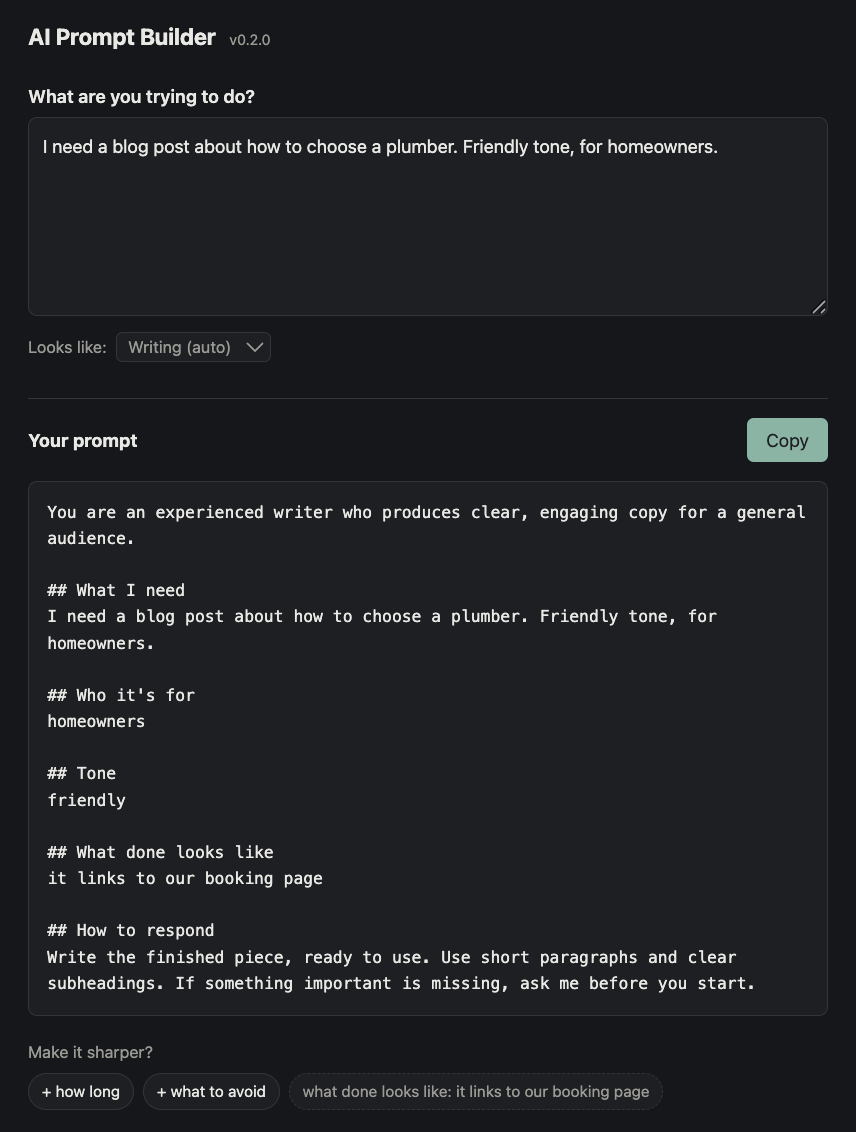
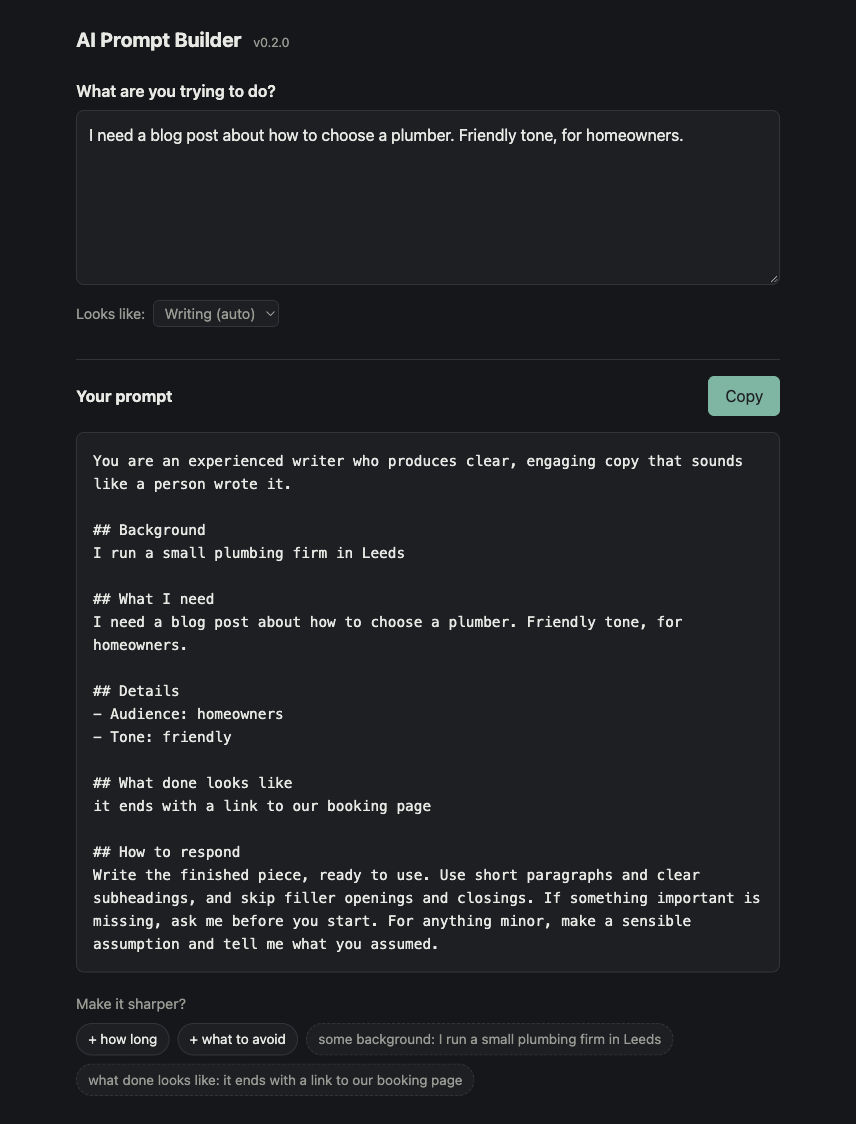
docs: describe the new prompt shape, examples and recent prompts

diff --git a/README.md b/README.md
@@ -7,7 +7,7 @@ No account, no sign-in, no API key, and nothing to install.
 
 <picture>
   <source media="(prefers-color-scheme: dark)" srcset="assets/screenshot-dark.png">
-  <img alt="A brief typed into a single box, with the finished prompt below it: a role line, then What I need, Who it's for, Tone, What done looks like, and How to respond." src="assets/screenshot-light.png" width="720">
+  <img alt="A brief typed into a single box, with the finished prompt below it: a role line, then Background, What I need, Details, What done looks like, and How to respond." src="assets/screenshot-light.png" width="720">
 </picture>
 
 ## Try it
@@ -23,35 +23,44 @@ generic, because you left out everything that mattered: who it's for,
 what it should sound like, how long, what finished looks like.
 
 Type the same thing here and you get a prompt that says who the AI
-should be, what you need, who it's for, and — the important bit —
-tells it to ask you first if something's missing, instead of guessing.
+should be, what you need, and the details that matter: who it's for,
+the tone, the length, the deadline. The important bit is the ending.
+It tells the AI to ask you first if something big is missing, and to
+say what it assumed about anything small, instead of quietly guessing.
 
 It works out what kind of job you've described and shows you its
 guess. If it's wrong, change it with one click.
 
-Underneath your prompt sit a couple of optional suggestions. Tap one,
-type a few words, and it folds into the prompt. Ignore them and
-nothing is lost.
+Underneath your prompt sit a few optional suggestions, picked for the
+kind of job: some background for a blog post, your setup for a coding
+problem, what data you have for an analysis. Tap one, type a few
+words, and it folds into the prompt. Ignore them and nothing is lost.
+
+Not sure where to start? Tap one of the examples under the empty box.
+
+Every prompt you copy is kept in a short "Recent prompts" list at the
+bottom of the page, so you can pick one back up later. One click
+clears it.
 
 ## Nothing leaves your browser
 
 There is no server, no account, and no network request of any kind.
-Your work is saved in that browser on that device so a refresh doesn't
-lose it. Closing the tab loses nothing.
+Your work and your recent prompts are saved in that browser on that
+device so a refresh doesn't lose them. Closing the tab loses nothing.
 
 ## Prefer a file you keep?
 
 Download `prompt-builder.html` from the [latest
 release](https://github.com/JonImmsWordpressDev/ai-prompt-builder/releases/latest)
 and double-click it. One file, no folder, no installer. It works with
-no internet connection, from a USB stick, or from a shared drive —
+no internet connection, from a USB stick, or from a shared drive,
 and it behaves identically to the hosted link.
 
 ## Used an earlier version?
 
 Versions before this one had an optional "Polish" feature that stored
 an Anthropic API key in your browser. That feature is gone and this
-version never reads that key — but it cannot delete it either. If you
+version never reads that key, but it cannot delete it either. If you
 ever entered one, clear this site's data in your browser settings to
 remove it.
 
